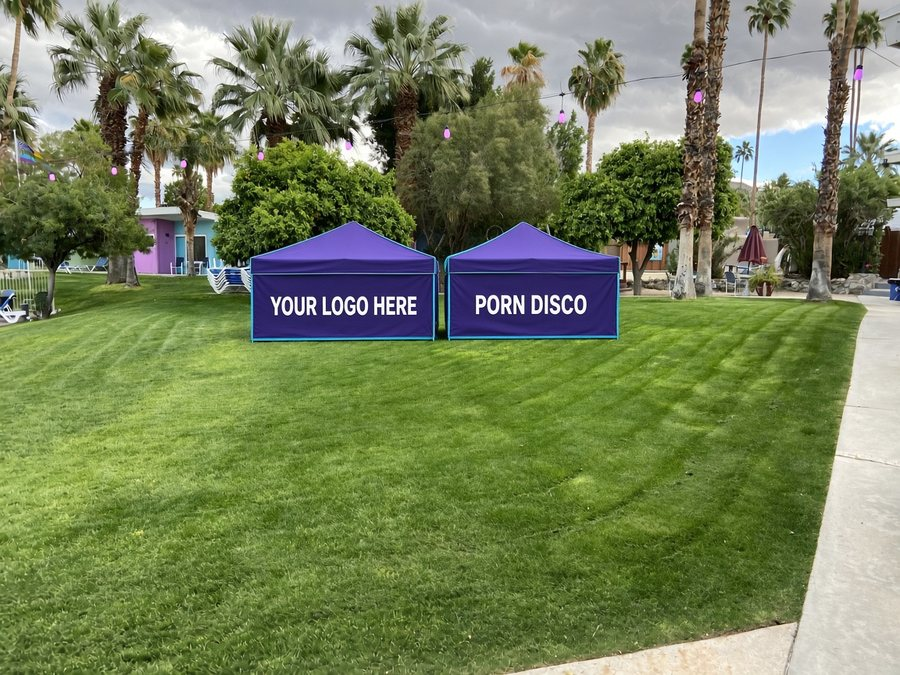
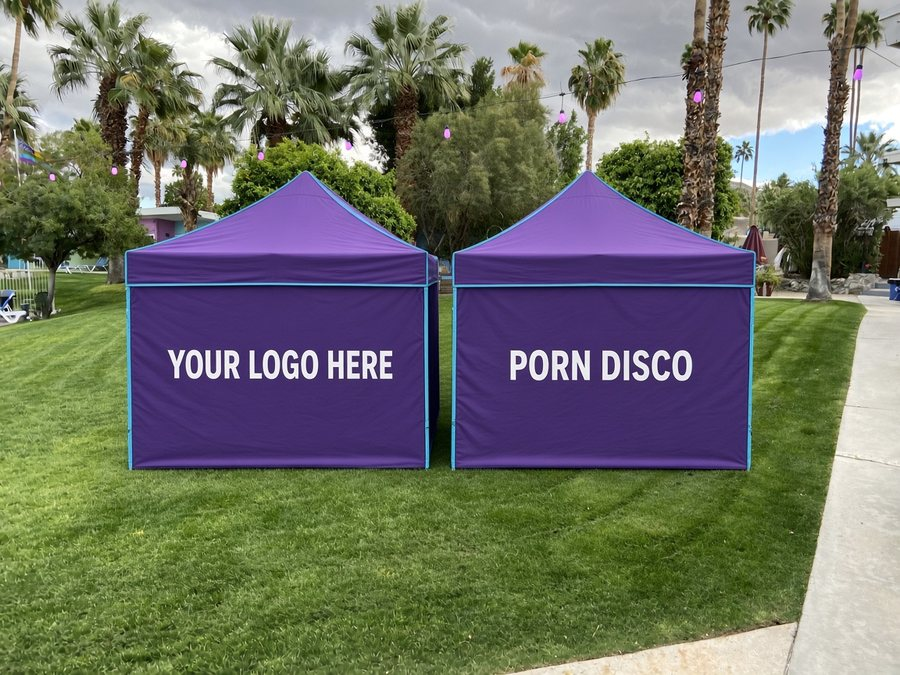
Drop card 3, renumber 01-23, new cards 01/10/15

diff --git a/index.html b/index.html
@@ -218,6 +218,7 @@ tbody tr:last-child td,tbody tr:last-child th{font-weight:700;color:var(--cyan)}
 .own-dates{font:700 .9rem var(--cond);letter-spacing:.14em;text-transform:uppercase;color:var(--g)}
 .own-count{margin-left:auto;font:600 .8rem var(--cond);letter-spacing:.18em;text-transform:uppercase;color:var(--text-2)}
 .own-grid{display:grid;grid-template-columns:repeat(4,1fr);gap:16px}
+@media (min-width:1101px){.own-party .own-grid,.own-hw .own-grid{grid-template-columns:repeat(8,1fr)}.own-party .act,.own-hw .act{grid-column:span 2}.own-party .act:nth-child(13),.own-hw .act:nth-child(5){grid-column:2 / span 2}}
 .act{background:var(--panel);border:1px solid var(--line);border-radius:var(--r);overflow:hidden;display:flex;flex-direction:column}
 .act figure{margin:0;position:relative}
 .act img{width:100%;aspect-ratio:4/3;object-fit:cover;display:block}
@@ -233,7 +234,7 @@ tbody tr:last-child td,tbody tr:last-child th{font-weight:700;color:var(--cyan)}
 .section-proof{padding:clamp(32px,4vw,52px) 0;border-top:1px solid var(--line)}
 .section-proof .chain{margin:6px 0 14px}
 .proof-line{color:var(--text-2);font-size:.92rem;max-width:72ch;margin:0}
-@media (max-width:1100px){.own-grid{grid-template-columns:repeat(3,1fr)}}
+@media (max-width:1100px){.own-grid{grid-template-columns:repeat(3,1fr)}.own-party .act,.own-hw .act{grid-column:auto}}
 @media (max-width:820px){.own-grid{grid-template-columns:repeat(2,1fr)}.own-week .act{grid-template-columns:1fr}}
 @media (max-width:560px){.own-grid{grid-template-columns:1fr;gap:12px}.act{display:grid;grid-template-columns:38% 1fr}.act img{height:100%;aspect-ratio:auto;min-height:150px}.act-copy{padding:12px 14px}.act h4{font-size:1.1rem}.act-desc{font-size:.9rem}.act-feel{font-size:.84rem}.own-count{margin-left:0}.own-week .act{grid-template-columns:1fr}.own-week .act img{aspect-ratio:16/10;min-height:0}.own-week .act-copy{padding:16px}.own-week .act h4{font-size:1.6rem}}
 .section-proof .chain-in{width:100%}.section-proof .chain-in>div{padding:18px 12px}.section-proof .chain .n{font-size:2.2rem}
@@ -268,36 +269,35 @@ tbody tr:last-child td,tbody tr:last-child th{font-weight:700;color:var(--cyan)}
 </div>
 <p class="section-close">Sponsors can show up for the weekend the fans feel, stay for the week the industry works, or do both. The two stories stay distinct on this site, in the deck, and in every pitch.</p>
 </div></section>
-<section id="own" class="section section-own"><div class="wrap"><p class="eyebrow">Where your brand lives</p><h2>What your brand can own</h2><p class="section-lede">24 ways in, across the party weekend, the creator week and every morning in between. Each one comes with its own placement at CCBC.</p>
-<div class="own-group own-party"><div class="own-head"><h3>At the Party</h3><span class="own-dates">Porn Disco · Fri Mar 5 to Sun Mar 7</span><span class="own-count">16 activations</span></div><div class="own-grid">
+<section id="own" class="section section-own"><div class="wrap"><p class="eyebrow">Where your brand lives</p><h2>What your brand can own</h2><p class="section-lede">23 ways in, across the party weekend, the creator week and every morning in between. Each one comes with its own placement at CCBC.</p>
+<div class="own-group own-party"><div class="own-head"><h3>At the Party</h3><span class="own-dates">Porn Disco · Fri Mar 5 to Sun Mar 7</span><span class="own-count">15 activations</span></div><div class="own-grid">
 <article class="act"><figure><img src="assets/act_01.jpg" alt="Meet the Stars photo booth: branded placement at CCBC" loading="lazy" style="object-position:center 50%"><span class="act-n">01</span></figure><div class="act-copy"><h4>Meet the Stars photo booth</h4><p class="act-desc">Your logo in every fan photo with the talent at the Friday Meat &amp; Greet.</p><p class="act-feel">Fans lined up, phones out, stars grinning beside your logo.</p></div></article>
 <article class="act"><figure><img src="assets/act_02.jpg" alt="Meat &amp; Greet step and repeat: branded placement at CCBC" loading="lazy" style="object-position:center 50%"><span class="act-n">02</span></figure><div class="act-copy"><h4>Meat &amp; Greet step and repeat</h4><p class="act-desc">Your brand behind the talent the moment the weekend opens.</p><p class="act-feel">Flashbulbs, first looks, the weekend officially starts in front of your wall.</p></div></article>
-<article class="act"><figure><img src="assets/act_03.jpg" alt="Early-entry Meat &amp; Greet: branded placement at CCBC" loading="lazy" style="object-position:center 50%"><span class="act-n">03</span></figure><div class="act-copy"><h4>Early-entry Meat &amp; Greet</h4><p class="act-desc">Host the VIP early entry, so fans meet the stars through your brand first.</p><p class="act-feel">The gate opens early and your VIPs walk in first, wristbands on.</p></div></article>
-<article class="act"><figure><img src="assets/act_04.jpg" alt="Pool banners: branded placement at CCBC" loading="lazy" style="object-position:center 50%"><span class="act-n">04</span></figure><div class="act-copy"><h4>Pool banners</h4><p class="act-desc">Your logo around the pool all day, in every shot of the crowd.</p><p class="act-feel">Sun, skin and splash, with your logo framing every pool shot.</p></div></article>
-<article class="act"><figure><img src="assets/act_05.jpg" alt="Go-go boxes: branded placement at CCBC" loading="lazy" style="object-position:center 55%"><span class="act-n">05</span></figure><div class="act-copy"><h4>Go-go boxes</h4><p class="act-desc">Your brand under the dancers, at the center of the action.</p><p class="act-feel">Dancers above the crowd, all eyes up, your brand right underneath.</p></div></article>
-<article class="act"><figure><img src="assets/act_06.jpg" alt="DJ booth: branded placement at CCBC" loading="lazy" style="object-position:center 50%"><span class="act-n">06</span></figure><div class="act-copy"><h4>DJ booth</h4><p class="act-desc">Your name on the booth that runs the night.</p><p class="act-feel">Bass drops, hands up, your name lit behind the DJ.</p></div></article>
-<article class="act"><figure><img src="assets/act_07.jpg" alt="Live shows and product demos: branded placement at CCBC" loading="lazy" style="object-position:center 50%"><span class="act-n">07</span></figure><div class="act-copy"><h4>Live shows and product demos</h4><p class="act-desc">Your product on stage in front of the crowd.</p><p class="act-feel">The crowd pushes close as your product goes live on stage.</p></div></article>
-<article class="act"><figure><img src="assets/act_08.jpg" alt="Branded shot bartenders: branded placement at CCBC" loading="lazy" style="object-position:center 50%"><span class="act-n">08</span></figure><div class="act-copy"><h4>Branded shot bartenders</h4><p class="act-desc">Your brand served hand to hand, all party long.</p><p class="act-feel">A shirtless bartender, a tray of shots, a cheer every round.</p></div></article>
-<article class="act"><figure><img src="assets/act_09.jpg" alt="Underwear show runway: branded placement at CCBC" loading="lazy" style="object-position:center 50%"><span class="act-n">09</span></figure><div class="act-copy"><h4>Underwear show runway</h4><p class="act-desc">Your gear on the runway, under the lights.</p><p class="act-feel">Lights hit, music swells, your gear walks the runway.</p></div></article>
-<article class="act"><figure><img src="assets/act_10.jpg" alt="VIP lounge and Runway Bar: CCBC Resort Hotel" loading="lazy" style="object-position:center 50%"><span class="act-n">10</span></figure><div class="act-copy"><h4>VIP lounge and Runway Bar</h4><p class="act-desc">Your brand on the spaces where talent and VIPs hang out.</p><p class="act-feel">The talent&#x27;s private corner, with your brand on the bar.</p></div></article>
-<article class="act"><figure><img src="assets/act_11.jpg" alt="Live cam suite takeover: branded placement at CCBC" loading="lazy" style="object-position:center 50%"><span class="act-n">11</span></figure><div class="act-copy"><h4>Live cam suite takeover</h4><p class="act-desc">A branded suite broadcasting live from the party all weekend.</p><p class="act-feel">On air from the party, with fans online watching the weekend through your suite.</p></div></article>
-<article class="act"><figure><img src="assets/act_12.jpg" alt="Themed branded rooms: branded placement at CCBC" loading="lazy" style="object-position:center 50%"><span class="act-n">12</span></figure><div class="act-copy"><h4>Themed branded rooms</h4><p class="act-desc">A whole room built around your brand.</p><p class="act-feel">Guests walk in and they&#x27;re inside your brand.</p></div></article>
-<article class="act"><figure><img src="assets/act_13.jpg" alt="In-room TVs: branded placement at CCBC" loading="lazy" style="object-position:center 50%"><span class="act-n">13</span></figure><div class="act-copy"><h4>In-room TVs</h4><p class="act-desc">Your ad playing in guest rooms all weekend.</p><p class="act-feel">Back in the room, your ad is the first thing on screen.</p></div></article>
-<article class="act"><figure><img src="assets/act_14.jpg" alt="Room gifts: branded placement at CCBC" loading="lazy" style="object-position:center 50%"><span class="act-n">14</span></figure><div class="act-copy"><h4>Room gifts</h4><p class="act-desc">Your product waiting in guest rooms.</p><p class="act-feel">Your gift is waiting on the pillow when they check in.</p></div></article>
-<article class="act"><figure><img src="assets/act_15.jpg" alt="Sponsor booths: branded placement at CCBC" loading="lazy" style="object-position:center 50%"><span class="act-n">15</span></figure><div class="act-copy"><h4>Sponsor booths</h4><p class="act-desc">Your own space on the grounds to meet guests face to face.</p><p class="act-feel">A meet-up spot on the grounds where guests stop to talk.</p></div></article>
-<article class="act"><figure><img src="assets/act_16.jpg" alt="Travel and bathhouse activations: branded placement at CCBC" loading="lazy" style="object-position:center 50%"><span class="act-n">16</span></figure><div class="act-copy"><h4>Travel and bathhouse activations</h4><p class="act-desc">Packages and perks that bring guests to Palm Springs and keep the night going.</p><p class="act-feel">Guests come for the party, stay for the trip, and end the night at the bathhouse.</p></div></article>
+<article class="act"><figure><img src="assets/act_04.jpg" alt="Pool banners: branded placement at CCBC" loading="lazy" style="object-position:center 50%"><span class="act-n">03</span></figure><div class="act-copy"><h4>Pool banners</h4><p class="act-desc">Your logo around the pool all day, in every shot of the crowd.</p><p class="act-feel">Sun, skin and splash, with your logo framing every pool shot.</p></div></article>
+<article class="act"><figure><img src="assets/act_05.jpg" alt="Go-go boxes: branded placement at CCBC" loading="lazy" style="object-position:center 55%"><span class="act-n">04</span></figure><div class="act-copy"><h4>Go-go boxes</h4><p class="act-desc">Your brand under the dancers, at the center of the action.</p><p class="act-feel">Dancers above the crowd, all eyes up, your brand right underneath.</p></div></article>
+<article class="act"><figure><img src="assets/act_06.jpg" alt="DJ booth: branded placement at CCBC" loading="lazy" style="object-position:center 50%"><span class="act-n">05</span></figure><div class="act-copy"><h4>DJ booth</h4><p class="act-desc">Your name on the booth that runs the night.</p><p class="act-feel">Bass drops, hands up, your name lit behind the DJ.</p></div></article>
+<article class="act"><figure><img src="assets/act_07.jpg" alt="Live shows and product demos: branded placement at CCBC" loading="lazy" style="object-position:center 50%"><span class="act-n">06</span></figure><div class="act-copy"><h4>Live shows and product demos</h4><p class="act-desc">Your product on stage in front of the crowd.</p><p class="act-feel">The crowd pushes close as your product goes live on stage.</p></div></article>
+<article class="act"><figure><img src="assets/act_08.jpg" alt="Branded shot bartenders: branded placement at CCBC" loading="lazy" style="object-position:center 50%"><span class="act-n">07</span></figure><div class="act-copy"><h4>Branded shot bartenders</h4><p class="act-desc">Your brand served hand to hand, all party long.</p><p class="act-feel">A shirtless bartender, a tray of shots, a cheer every round.</p></div></article>
+<article class="act"><figure><img src="assets/act_09.jpg" alt="Underwear show runway: branded placement at CCBC" loading="lazy" style="object-position:center 50%"><span class="act-n">08</span></figure><div class="act-copy"><h4>Underwear show runway</h4><p class="act-desc">Your gear on the runway, under the lights.</p><p class="act-feel">Lights hit, music swells, your gear walks the runway.</p></div></article>
+<article class="act"><figure><img src="assets/act_10.jpg" alt="VIP lounge and Runway Bar: branded placement at CCBC" loading="lazy" style="object-position:center 50%"><span class="act-n">09</span></figure><div class="act-copy"><h4>VIP lounge and Runway Bar</h4><p class="act-desc">Your brand on the spaces where talent and VIPs hang out.</p><p class="act-feel">The talent&#x27;s private corner, with your brand on the bar.</p></div></article>
+<article class="act"><figure><img src="assets/act_11.jpg" alt="Live cam suite takeover: branded placement at CCBC" loading="lazy" style="object-position:center 50%"><span class="act-n">10</span></figure><div class="act-copy"><h4>Live cam suite takeover</h4><p class="act-desc">A branded suite broadcasting live from the party all weekend.</p><p class="act-feel">On air from the party, with fans online watching the weekend through your suite.</p></div></article>
+<article class="act"><figure><img src="assets/act_12.jpg" alt="Themed branded rooms: branded placement at CCBC" loading="lazy" style="object-position:center 50%"><span class="act-n">11</span></figure><div class="act-copy"><h4>Themed branded rooms</h4><p class="act-desc">A whole room built around your brand.</p><p class="act-feel">Guests walk in and they&#x27;re inside your brand.</p></div></article>
+<article class="act"><figure><img src="assets/act_13.jpg" alt="In-room TVs: branded placement at CCBC" loading="lazy" style="object-position:center 50%"><span class="act-n">12</span></figure><div class="act-copy"><h4>In-room TVs</h4><p class="act-desc">Your ad playing in guest rooms all weekend.</p><p class="act-feel">Back in the room, your ad is the first thing on screen.</p></div></article>
+<article class="act"><figure><img src="assets/act_14.jpg" alt="Room gifts: branded placement at CCBC" loading="lazy" style="object-position:center 50%"><span class="act-n">13</span></figure><div class="act-copy"><h4>Room gifts</h4><p class="act-desc">Your product waiting in guest rooms.</p><p class="act-feel">Your gift is waiting on the pillow when they check in.</p></div></article>
+<article class="act"><figure><img src="assets/act_15.jpg" alt="Sponsor booths: branded placement at CCBC" loading="lazy" style="object-position:center 50%"><span class="act-n">14</span></figure><div class="act-copy"><h4>Sponsor booths</h4><p class="act-desc">Your own space on the grounds to meet guests face to face.</p><p class="act-feel">A meet-up spot on the grounds where guests stop to talk.</p></div></article>
+<article class="act"><figure><img src="assets/act_16.jpg" alt="Travel and bathhouse activations: branded placement at CCBC" loading="lazy" style="object-position:center 50%"><span class="act-n">15</span></figure><div class="act-copy"><h4>Travel and bathhouse activations</h4><p class="act-desc">Packages and perks that bring guests to Palm Springs and keep the night going.</p><p class="act-feel">Guests come for the party, stay for the trip, and end the night at the bathhouse.</p></div></article>
 </div></div>
 <div class="own-group own-hw"><div class="own-head"><h3>At Heat Week</h3><span class="own-dates">Heat Week · Tue Mar 2 to Mon Mar 8</span><span class="own-count">7 activations</span></div><div class="own-grid">
-<article class="act"><figure><img src="assets/act_17.jpg" alt="Residency sponsorship: branded placement at CCBC" loading="lazy" style="object-position:center 50%"><span class="act-n">17</span></figure><div class="act-copy"><h4>Residency sponsorship</h4><p class="act-desc">Your name on a week of 15+ creators living and working at the resort.</p><p class="act-feel">Fifteen creators, one week, your name over all of it.</p></div></article>
-<article class="act"><figure><img src="assets/act_18.jpg" alt="Product in creator content: branded placement at CCBC" loading="lazy" style="object-position:center 50%"><span class="act-n">18</span></figure><div class="act-copy"><h4>Product in creator content</h4><p class="act-desc">Your product in the content made on site, filmed throughout the property.</p><p class="act-feel">Cameras roll across the resort and your product is in frame.</p></div></article>
-<article class="act"><figure><img src="assets/act_19.jpg" alt="Recruiting and onboarding: CCBC Resort Hotel" loading="lazy" style="object-position:center 50%"><span class="act-n">19</span></figure><div class="act-copy"><h4>Recruiting and onboarding</h4><p class="act-desc">Time with creators on site to sign them to your platform.</p><p class="act-feel">Coffee, poolside and real conversations that end in sign-ups.</p></div></article>
-<article class="act"><figure><img src="assets/act_20.jpg" alt="Live cam suites: CCBC Resort Hotel" loading="lazy" style="object-position:center 50%"><span class="act-n">20</span></figure><div class="act-copy"><h4>Live cam suites</h4><p class="act-desc">A broadcast residency, with creators streaming from the resort all week.</p><p class="act-feel">Lights on, creators live from the resort all week.</p></div></article>
-<article class="act"><figure><img src="assets/act_21.jpg" alt="Themed branded creator room: CCBC Resort Hotel" loading="lazy" style="object-position:center 50%"><span class="act-n">21</span></figure><div class="act-copy"><h4>Themed branded creator room</h4><p class="act-desc">A creator room built around your brand, seen in everything filmed there.</p><p class="act-feel">A room styled in your look, seen in every scene shot there.</p></div></article>
-<article class="act"><figure><img src="assets/act_22.jpg" alt="Creator gifting: CCBC Resort Hotel" loading="lazy" style="object-position:center 50%"><span class="act-n">22</span></figure><div class="act-copy"><h4>Creator gifting</h4><p class="act-desc">Your product in the hands of every resident creator.</p><p class="act-feel">Every creator opens your box on day one.</p></div></article>
-<article class="act"><figure><img src="assets/act_23.jpg" alt="Heat Week partner list: CCBC Resort Hotel" loading="lazy" style="object-position:center 50%"><span class="act-n">23</span></figure><div class="act-copy"><h4>Heat Week partner list</h4><p class="act-desc">Your logo on the official partner list for the week.</p><p class="act-feel">Your logo on the wall every creator walks past.</p></div></article>
+<article class="act"><figure><img src="assets/act_17.jpg" alt="Residency sponsorship: branded placement at CCBC" loading="lazy" style="object-position:center 50%"><span class="act-n">16</span></figure><div class="act-copy"><h4>Residency sponsorship</h4><p class="act-desc">Your name on a week of 15+ creators living and working at the resort.</p><p class="act-feel">Fifteen creators, one week, your name over all of it.</p></div></article>
+<article class="act"><figure><img src="assets/act_18.jpg" alt="Product in creator content: branded placement at CCBC" loading="lazy" style="object-position:center 50%"><span class="act-n">17</span></figure><div class="act-copy"><h4>Product in creator content</h4><p class="act-desc">Your product in the content made on site, filmed throughout the property.</p><p class="act-feel">Cameras roll across the resort and your product is in frame.</p></div></article>
+<article class="act"><figure><img src="assets/act_19.jpg" alt="Recruiting and onboarding: CCBC Resort Hotel" loading="lazy" style="object-position:center 50%"><span class="act-n">18</span></figure><div class="act-copy"><h4>Recruiting and onboarding</h4><p class="act-desc">Time with creators on site to sign them to your platform.</p><p class="act-feel">Coffee, poolside and real conversations that end in sign-ups.</p></div></article>
+<article class="act"><figure><img src="assets/act_20.jpg" alt="Live cam suites: CCBC Resort Hotel" loading="lazy" style="object-position:center 50%"><span class="act-n">19</span></figure><div class="act-copy"><h4>Live cam suites</h4><p class="act-desc">A broadcast residency, with creators streaming from the resort all week.</p><p class="act-feel">Lights on, creators live from the resort all week.</p></div></article>
+<article class="act"><figure><img src="assets/act_21.jpg" alt="Themed branded creator room: CCBC Resort Hotel" loading="lazy" style="object-position:center 50%"><span class="act-n">20</span></figure><div class="act-copy"><h4>Themed branded creator room</h4><p class="act-desc">A creator room built around your brand, seen in everything filmed there.</p><p class="act-feel">A room styled in your look, seen in every scene shot there.</p></div></article>
+<article class="act"><figure><img src="assets/act_22.jpg" alt="Creator gifting: CCBC Resort Hotel" loading="lazy" style="object-position:center 50%"><span class="act-n">21</span></figure><div class="act-copy"><h4>Creator gifting</h4><p class="act-desc">Your product in the hands of every resident creator.</p><p class="act-feel">Every creator opens your box on day one.</p></div></article>
+<article class="act"><figure><img src="assets/act_23.jpg" alt="Heat Week partner list: CCBC Resort Hotel" loading="lazy" style="object-position:center 50%"><span class="act-n">22</span></figure><div class="act-copy"><h4>Heat Week partner list</h4><p class="act-desc">Your logo on the official partner list for the week.</p><p class="act-feel">Your logo on the wall every creator walks past.</p></div></article>
 </div></div>
 <div class="own-group own-week"><div class="own-head"><h3>Across the week</h3><span class="own-dates">Mar 2 to 8</span><span class="own-count">1 activation</span></div><div class="own-grid">
-<article class="act"><figure><img src="assets/act_24.jpg" alt="Naked Pornstar Morning Yoga: branded placement at CCBC" loading="lazy" style="object-position:center 50%"><span class="act-n">24</span></figure><div class="act-copy"><h4>Naked Pornstar Morning Yoga</h4><p class="act-desc">A named morning session your brand presents.</p><p class="act-feel">Sunrise on the lawn, mats down, a naked class under your banner.</p></div></article>
+<article class="act"><figure><img src="assets/act_24.jpg" alt="Naked Pornstar Morning Yoga: branded placement at CCBC" loading="lazy" style="object-position:center 50%"><span class="act-n">23</span></figure><div class="act-copy"><h4>Naked Pornstar Morning Yoga</h4><p class="act-desc">A named morning session your brand presents.</p><p class="act-feel">Sunrise on the lawn, mats down, a naked class under your banner.</p></div></article>
 </div></div>
 <p class="fineprint">Sponsor placements show YOUR LOGO HERE until a partner signs.</p></div></section>
 <section id="tiers" class="section section-photo" style="--bg:url(assets/night_pool_branded.jpg)"><div class="wrap"><p class="eyebrow">Partnership levels</p><h2>Partnership tiers</h2><p class="section-lede">One exclusive Platinum. Two Gold. Silver and Bronze stay open so more than one partner can come in at those levels.</p><div class="tiers">
